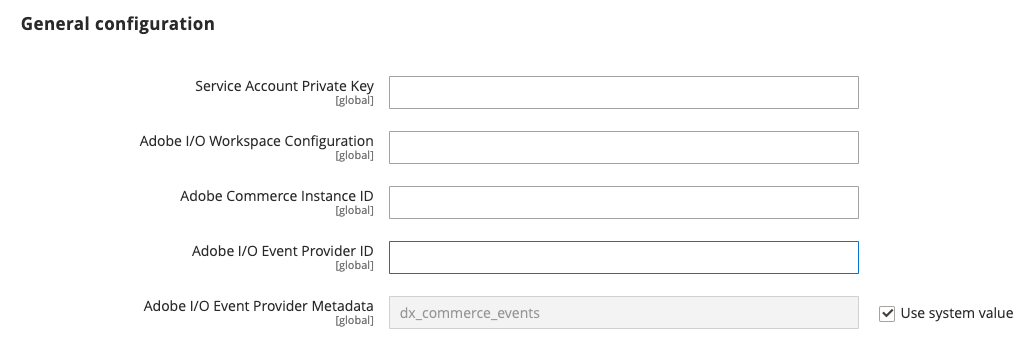
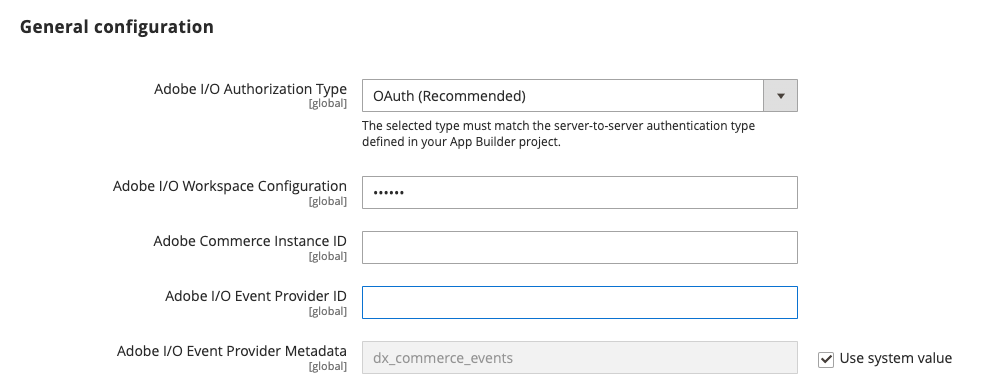
OAuth authentication

diff --git a/src/pages/get-started/configure-commerce.md b/src/pages/get-started/configure-commerce.md
@@ -7,22 +7,23 @@ description: Learn how to configure both Commerce and your existing Adobe App Bu
 
 After you have created an [App Builder project](./project-setup.md) and [install the eventing modules](./installation.md), you must download several files from the App Builder project and configure eventing in the Commerce admin.
 
-## Begin configuring events on Commerce
+## Configure the Adobe I/O connection
 
-You must configure Commerce to communicate with your project. You will need two files that you downloaded from the the Adobe Developer Console.
-
-*  [Private key](./project-setup.md#set-up-a-project)
-*  [Workspace configuration](./project-setup.md#download-the-workspace-configuration-file)
+You must configure Commerce to communicate with your project. Configuration includes copying and pasting the contents of the [workspace configuration file](./project-setup.md#download-the-workspace-configuration-file) that you downloaded from the Adobe Developer Console. If you decided to use JSON Web Tokens (JWT) as your server-to server authentication method, you must also upload a private key.
 
 1. In the Commerce Admin, navigate to **Stores** > Settings > **Configuration** > **Adobe Services** > **Adobe I/O Events** > **General configuration**. The following screen displays.
 
-![General configuration](../_images/general-configuration.png)
+   ![General configuration](../_images/general-configuration.png)
 
-1. Copy and paste the contents of the `private.key` file into the **Service Account Private Key** field. Use the following command to copy the contents.
+1. Select the server-to-server authorization method you implemented from **Adobe I/O Authorization Type** menu. Adobe recommends using OAuth. JWT has been deprecated.
+
+1. (JWT only) Copy and paste the contents of your `private.key` file into the **Service Account Private Key** field. Use the following command to copy the contents.
 
    ```bash
    cat config/private.key | pbcopy
    ```
+
+   See [Service Account (JWT) Authentication](https://developer.adobe.com/developer-console/docs/guides/authentication/JWT/) for more information about the `private.key` file.
 
 1. Copy the contents of the `<workspace-name>.json` file into the **Adobe I/O Workspace Configuration** field.
 
@@ -101,7 +102,7 @@ Commerce provides two sources for events: observers and plugins. You must specif
 
    ![Select the events to subscribe to](../_images/config-event-registration.png)
 
-1. Optionally create a new JWT credential. Then click **Next**.
+1. Optionally create a new OAuth or JWT credential. Then click **Next**.
 
 1. Update the **Event registration name** and **Event registration description** fields. In the **How to receive events** section, under **Option 2**, select the runtime action you created in [Set up App Builder and define a runtime action](./project-setup.md#set-up-app-builder-and-define-a-runtime-action).
 

diff --git a/src/pages/get-started/project-setup.md b/src/pages/get-started/project-setup.md
@@ -45,11 +45,11 @@ To get started with Adobe I/O Events, you must:
 
    ![Select IO events](../_images/add-io-management.png)
 
-1. On the **Configure API** page, select the **Generate a key pair** option and click **Generate keypair**. The `config.zip` file downloads automatically.
+1. On the **Configure API** page, select the **OAuth Server-to-Server** option and click **Save configured API**.
 
-   ![generate a key pair](../_images/generate-key-pair.png)
+   ![generate a key pair](../_images/setup-api-oauth.png)
 
-   **Note**: If you want to manually [create a public key certificate](https://developer.adobe.com/developer-console/docs/guides/authentication/JWT/JWTCertificate/), you can select the **Upload your public key** option.
+   **Note**: You can set up server-to-server authentication using JSON Web Tokens (JWT). However, this method has been deprecated in favor of OAuth and must be replaced no later than January 1, 2025. See [Service Account (JWT) Authentication](https://developer.adobe.com/developer-console/docs/guides/authentication/JWT/) for details on implementing this solution.
 
 1. Click **Save configured API**.
 
